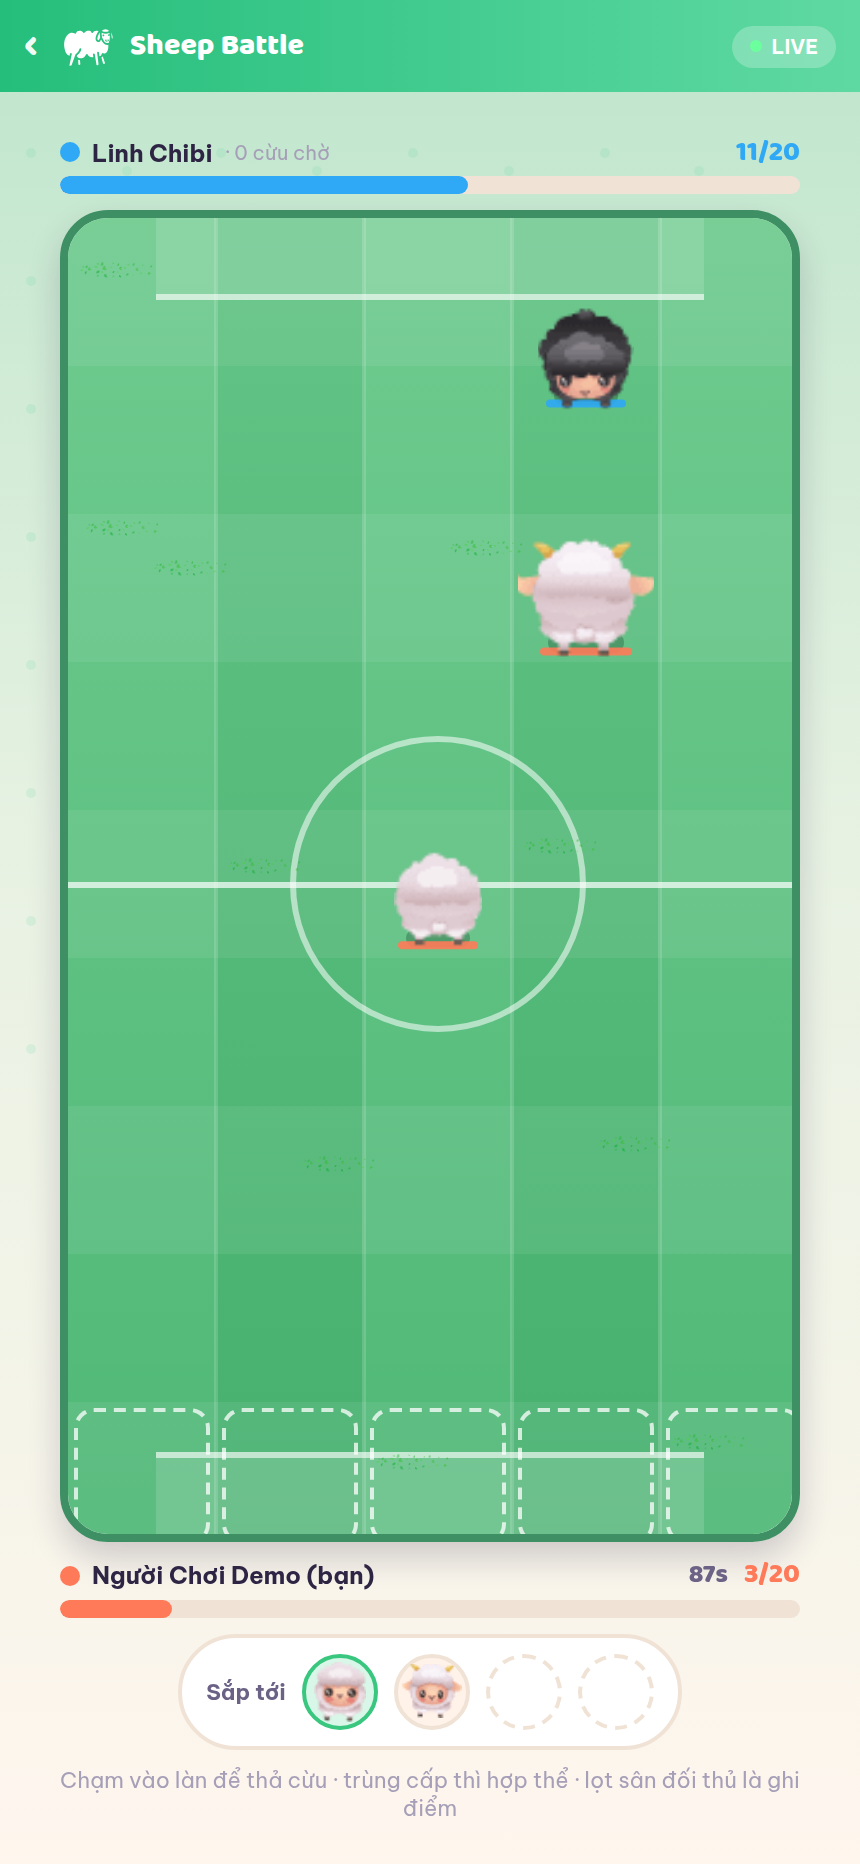
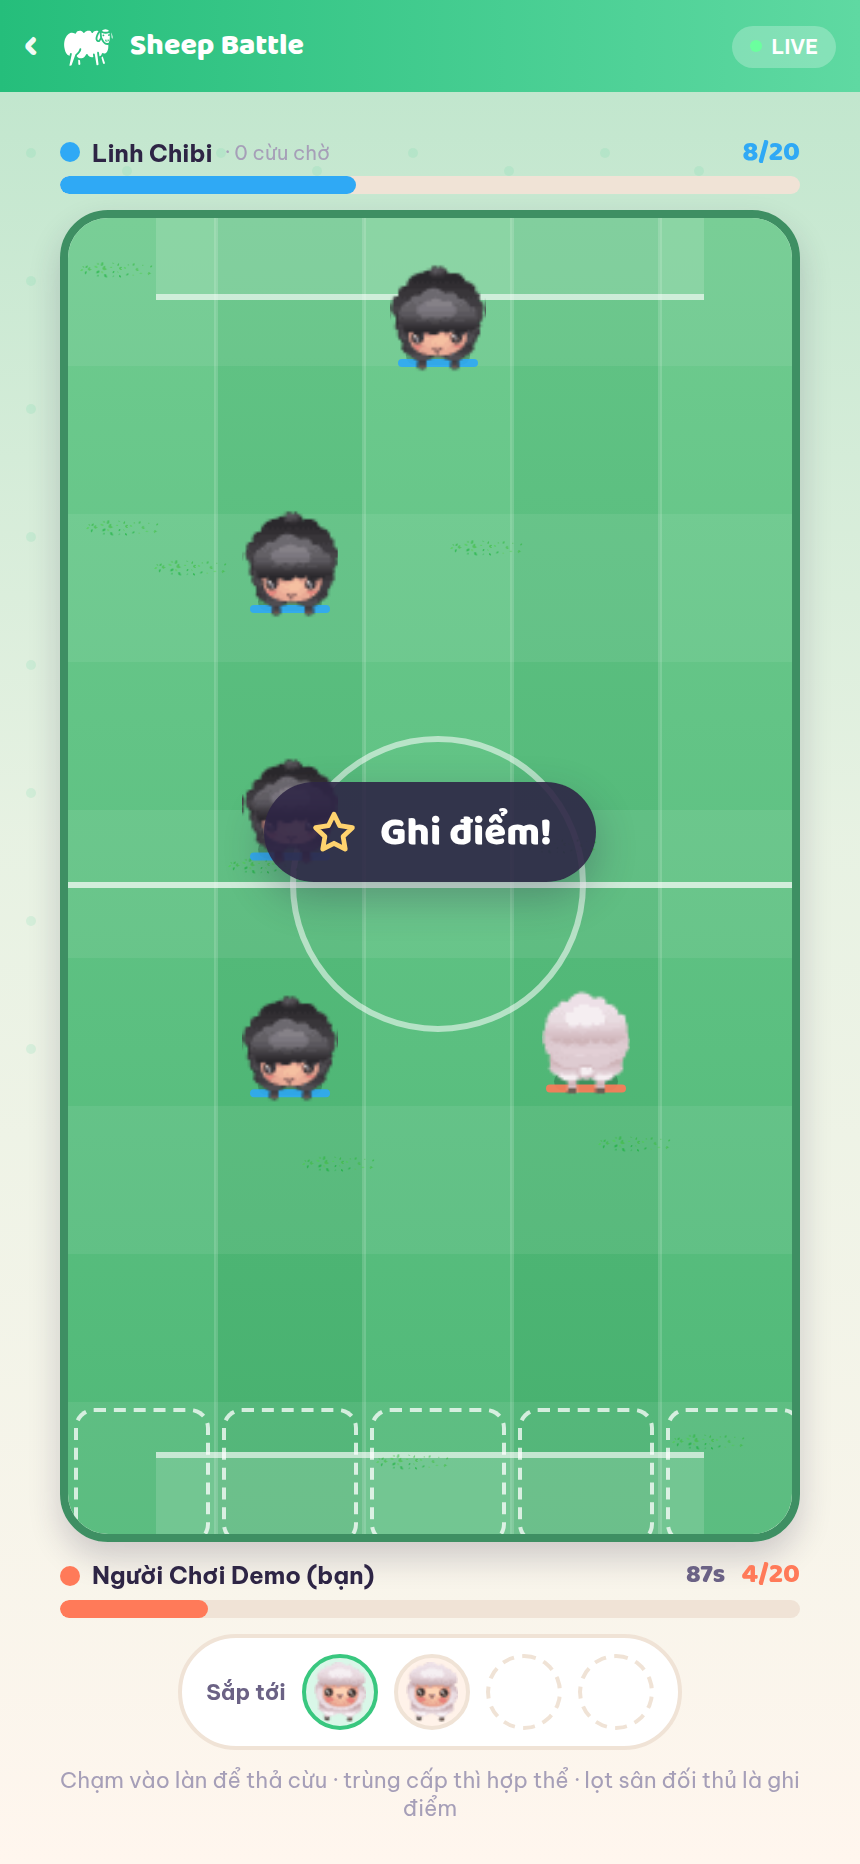
Thêm nhịp ghì nhau và hiệu ứng húc của bộ art Sheep Fight
Repo TomoSheepFight có sẵn hai hiệu ứng nhiều khung, nay dùng cả hai:
- push-effect: 8 khung bụi bốc lên chỗ hai bên tì nhau.
- lane-effect: 4 khung vệt sáng chạy dọc làn vừa thả cừu.

Engine (packages/shared/src/games/sheep.ts):
- Chạm cừu địch giờ khoá hai con lại PUSH_MS = 700ms rồi mới trừ cấp, thay vì
  giải quyết gọn trong một tick. Không có nhịp này thì người chơi chỉ thấy cừu
  biến mất chứ không thấy hai bên đẩy nhau.
- view trả thêm pushMs; unit mang lockUntil để client biết đang ghì.

Client:
- <SheepEffect> chạy strip nhiều khung; đám bụi vẽ đè lên cừu, đặt giữa cặp gần
  nhau nhất của hai phe trong làn nên mỗi làn chỉ một đám.
- Cừu đang ghì thì chuyển sang animation húc và nảy gấp đôi nhịp.
- Sprite cừu không còn nuốt cú chạm thả cừu (pointerEvents none).
- Không báo lỗi khi bấm lúc hàng chờ trống hoặc ô xuất phát đang bận — đó là
  nhịp chơi bình thường, không phải lỗi.

Sửa lỗi màn hình trắng: khối tính điểm chạm gọi rowOf trước khi hàm được khai
báo, TDZ làm vỡ cả màn trận.

diff --git a/apps/mobile/src/games/SheepArena.tsx b/apps/mobile/src/games/SheepArena.tsx
@@ -3,7 +3,7 @@ import { Image, Pressable, View } from 'react-native';
 import { LinearGradient } from 'expo-linear-gradient';
 import { Bar, Txt } from '../components/ui';
 import { Icon } from '../components/Icon';
-import { SheepBadge, SheepSprite, SheepUnit } from '../components/SheepSprite';
+import { SheepBadge, SheepEffect, SheepSprite, SheepUnit } from '../components/SheepSprite';
 import { SHEEP_STILLS } from '../art/sheepFight';
 import { C, R, S, SEAT_COLORS, softShadow } from '../theme';
 import { BoardProps } from './shared';
@@ -13,6 +13,8 @@ const LEVEL_SCALE = [0.74, 0.74, 0.86, 0.98, 1.1, 1.24];
 
 export default function SheepArena({ view, mySeat, send, space }: BoardProps) {
   const [now, setNow] = useState(Date.now());
+  /** Lần chạm gần nhất của từng làn, để chạy vệt sáng. */
+  const [tapped, setTapped] = useState<Record<number, number>>({});
   useEffect(() => {
     const t = setInterval(() => setNow(Date.now()), 200);
     return () => clearInterval(t);
@@ -31,8 +33,40 @@ export default function SheepArena({ view, mySeat, send, space }: BoardProps) {
   const fieldH = cell * len;
 
   const left = Math.max(0, (view.endsAt ?? 0) - now);
-  /** Sân luôn xoay để phần của mình nằm dưới, bất kể ngồi ghế nào. */
+
   const rowOf = (pos: number) => (me === 0 ? len - 1 - pos : pos);
+
+  /**
+   * Chỗ hai phe đang tì nhau trong mỗi làn: lấy cặp gần nhau nhất rồi đặt đám
+   * bụi vào chính giữa, thay vì mỗi con tự vẽ một đám lệch nhau.
+   */
+  const clashSpots: { lane: number; row: number }[] = [];
+  {
+    const byLane = new Map<number, any[]>();
+    for (const u of view.units as any[]) {
+      const pushing = (u.lockUntil && now < u.lockUntil) || (u.clashAt && now - u.clashAt < 420);
+      if (!pushing) continue;
+      const list = byLane.get(u.lane) ?? [];
+      list.push(u);
+      byLane.set(u.lane, list);
+    }
+    byLane.forEach((units, lane) => {
+      const ours = units.filter((u) => u.seat === me);
+      const theirs = units.filter((u) => u.seat !== me);
+      let best: [any, any] | null = null;
+      let gap = Infinity;
+      for (const a of ours)
+        for (const b of theirs) {
+          const d = Math.abs(a.pos - b.pos);
+          if (d < gap) {
+            gap = d;
+            best = [a, b];
+          }
+        }
+      if (best) clashSpots.push({ lane, row: (rowOf(best[0].pos) + rowOf(best[1].pos)) / 2 });
+    });
+  }
+  /** Sân luôn xoay để phần của mình nằm dưới, bất kể ngồi ghế nào. */
 
   return (
     <View style={{ gap: S.sm, alignItems: 'center' }}>
@@ -130,11 +164,23 @@ export default function SheepArena({ view, mySeat, send, space }: BoardProps) {
           />
         ))}
 
+        {/* Vệt sáng chạy dọc làn vừa thả cừu, cho biết chạm đã ăn */}
+        {Array.from({ length: lanes }, (_, i) =>
+          now - (tapped[i] ?? 0) < 380 ? (
+            <View key={`lanefx${i}`} pointerEvents="none" style={{ position: 'absolute', left: i * cell, top: 0 }}>
+              <SheepEffect name="lane-effect" width={cell} height={fieldH} frameMs={95} opacity={0.4} />
+            </View>
+          ) : null,
+        )}
+
         {/* Vùng chạm để thả cừu — cả cột làn */}
         {Array.from({ length: lanes }, (_, i) => (
           <Pressable
             key={`tap${i}`}
-            onPress={() => send('deploy', { lane: i })}
+            onPress={() => {
+              setTapped((t) => ({ ...t, [i]: Date.now() }));
+              send('deploy', { lane: i });
+            }}
             style={({ pressed }) => ({
               position: 'absolute',
               left: i * cell,
@@ -169,7 +215,7 @@ export default function SheepArena({ view, mySeat, send, space }: BoardProps) {
         {view.units.map((u: any) => {
           const row = rowOf(u.pos);
           const mine = u.seat === me;
-          const clashing = !!u.clashAt && now - u.clashAt < 500;
+          const clashing = (!!u.lockUntil && now < u.lockUntil) || (!!u.clashAt && now - u.clashAt < 420);
           const body = cell * (LEVEL_SCALE[u.level] ?? 0.9);
           return (
             <SheepUnit
@@ -212,17 +258,29 @@ export default function SheepArena({ view, mySeat, send, space }: BoardProps) {
                   size={body}
                   frameMs={clashing ? 90 : 120}
                 />
-                {clashing ? (
-                  <Image
-                    source={SHEEP_STILLS['push-effect']}
-                    resizeMode="contain"
-                    style={{ position: 'absolute', bottom: cell * 0.5, width: cell * 0.9, height: cell * 0.28 }}
-                  />
-                ) : null}
               </View>
             </SheepUnit>
           );
         })}
+        {/* Bụi bốc lên chỗ hai phe tì nhau — hiệu ứng 8 khung của bộ art gốc */}
+        {clashSpots.map((spot) => (
+          <View
+            key={`clash${spot.lane}`}
+            pointerEvents="none"
+            style={{
+              position: 'absolute',
+              left: spot.lane * cell,
+              top: spot.row * cell,
+              width: cell,
+              height: cell,
+              alignItems: 'center',
+              justifyContent: 'center',
+            }}
+          >
+            <SheepEffect name="push-effect" width={cell * 1.35} height={cell * 1.2} frameMs={60} />
+          </View>
+        ))}
+
       </View>
 
       {/* Bên mình */}

diff --git a/packages/shared/src/games/sheep.ts b/packages/shared/src/games/sheep.ts
@@ -29,6 +29,8 @@ export interface SheepUnit {
   lastMoveAt: number;
   /** Đánh dấu để client chạy hiệu ứng va chạm. */
   clashAt?: number;
+  /** Đang ghì nhau tới thời điểm này thì chưa ai đi tiếp. */
+  lockUntil?: number;
 }
 
 export interface SheepState extends BaseState {
@@ -50,6 +52,8 @@ export interface SheepState extends BaseState {
 export const MAX_LEVEL = 5;
 /** Mỗi cừu đi 1 ô sau ngần này mili-giây. */
 const MOVE_MS = 620;
+/** Hai bên chạm nhau thì ghì nhau chừng này rồi mới phân thắng bại. */
+const PUSH_MS = 700;
 /** Hàng chờ hồi thêm 1 con cừu sau ngần này mili-giây. */
 const REFILL_MS = 1400;
 
@@ -181,6 +185,8 @@ export const SheepEngine: GameEngine<SheepState, SheepConfig> = {
 
     for (const mover of order) {
       if (dead.has(mover.id)) continue;
+      // Đang ghì nhau: đứng tại chỗ đẩy, chưa đi và chưa phân thắng bại.
+      if (mover.lockUntil && now < mover.lockUntil) continue;
       if (now - mover.lastMoveAt < MOVE_MS) continue;
       mover.lastMoveAt = now;
       dirty = true;
@@ -214,7 +220,18 @@ export const SheepEngine: GameEngine<SheepState, SheepConfig> = {
         continue;
       }
 
-      // Chạm cừu địch: hai bên trừ cấp cho nhau, bên còn dư cấp thì sống.
+      // Chạm cừu địch: ghì nhau một nhịp cho thấy hai bên đang đẩy, hết nhịp
+      // mới trừ cấp. Không có nhịp này thì va chạm xong trong một tick, người
+      // chơi chỉ thấy cừu biến mất.
+      if (!mover.lockUntil || !target.lockUntil) {
+        mover.lockUntil = now + PUSH_MS;
+        target.lockUntil = now + PUSH_MS;
+        mover.clashAt = now;
+        target.clashAt = now;
+        events.push({ type: 'clash', payload: { lane: mover.lane, pos: next, by: mover.seat } });
+        continue;
+      }
+
       const damage = Math.min(mover.level, target.level);
       mover.level -= damage;
       target.level -= damage;
@@ -224,6 +241,8 @@ export const SheepEngine: GameEngine<SheepState, SheepConfig> = {
         type: 'clash',
         payload: { lane: mover.lane, pos: next, by: mover.seat },
       });
+      mover.lockUntil = undefined;
+      target.lockUntil = undefined;
       if (target.level <= 0) dead.add(target.id);
       if (mover.level <= 0) dead.add(mover.id);
       // Thắng giao tranh thì tràn lên ô vừa dọn sạch.
@@ -260,6 +279,7 @@ export const SheepEngine: GameEngine<SheepState, SheepConfig> = {
       maxLevel: MAX_LEVEL,
       // Client dùng nhịp này để trượt cừu sang ô mới đúng bằng thời gian server đi.
       moveMs: MOVE_MS,
+      pushMs: PUSH_MS,
       mySeat: seat,
       // Hàng chờ của đối thủ được giấu, chỉ lộ số lượng.
       myQueue: seat >= 0 ? state.queues[seat] : [],

diff --git a/apps/mobile/src/components/SheepSprite.tsx b/apps/mobile/src/components/SheepSprite.tsx
@@ -1,6 +1,6 @@
 import React, { useEffect, useRef, useState } from 'react';
 import { Animated, Easing, Image, View } from 'react-native';
-import { SheepAnim, SheepTeam, sheepBadge, sheepStrip } from '../art/sheepFight';
+import { SHEEP_STRIPS, SheepAnim, SheepTeam, sheepBadge, sheepStrip } from '../art/sheepFight';
 
 /**
  * Cừu trong Sheep Battle — sprite thật của game Sheep Fight, mỗi bậc hợp thể là
@@ -123,6 +123,8 @@ export function SheepUnit({
 
   return (
     <Animated.View
+      // Cừu không được nuốt cú chạm — vùng chạm thả cừu nằm dưới nó.
+      pointerEvents="none"
       style={{
         position: 'absolute',
         width,
@@ -134,5 +136,56 @@ export function SheepUnit({
     >
       {children}
     </Animated.View>
+  );
+}
+
+/**
+ * Hiệu ứng nhiều khung của bộ art (bụi húc nhau, vệt sáng làn).
+ * `loop = false` thì chạy hết một lượt rồi tắt.
+ */
+export function SheepEffect({
+  name,
+  width,
+  height,
+  frameMs = 70,
+  loop = true,
+  opacity = 1,
+}: {
+  name: 'push-effect' | 'lane-effect';
+  width: number;
+  height: number;
+  frameMs?: number;
+  loop?: boolean;
+  opacity?: number;
+}) {
+  const strip = SHEEP_STRIPS[name];
+  const [frame, setFrame] = useState(0);
+
+  useEffect(() => {
+    setFrame(0);
+    const timer = setInterval(() => {
+      setFrame((f) => {
+        const next = f + 1;
+        if (next >= strip.count) return loop ? 0 : strip.count - 1;
+        return next;
+      });
+    }, frameMs);
+    return () => clearInterval(timer);
+  }, [strip.count, frameMs, loop, name]);
+
+  return (
+    <View style={{ width, height, overflow: 'hidden', opacity }} pointerEvents="none">
+      <Image
+        source={strip.src}
+        resizeMode="stretch"
+        style={{
+          position: 'absolute',
+          width: width * strip.count,
+          height,
+          left: -frame * width,
+          top: 0,
+        }}
+      />
+    </View>
   );
 }

diff --git a/apps/mobile/src/art/sheepFight.ts b/apps/mobile/src/art/sheepFight.ts
@@ -32,6 +32,8 @@ export const SHEEP_STRIPS: Record<string, SheepStrip> = {
   'sheep-5-w-push': { w: 82, h: 84, count: 6, src: require('../../assets/sheep-fight/sheep-5-w-push.png') },
   'sheep-5-b-walk': { w: 83, h: 83, count: 6, src: require('../../assets/sheep-fight/sheep-5-b-walk.png') },
   'sheep-5-b-push': { w: 83, h: 80, count: 6, src: require('../../assets/sheep-fight/sheep-5-b-push.png') },
+  'push-effect': { w: 66, h: 59, count: 8, src: require('../../assets/sheep-fight/push-effect.png') },
+  'lane-effect': { w: 70, h: 640, count: 4, src: require('../../assets/sheep-fight/lane-effect.png') },
 };
 
 export const SHEEP_STILLS: Record<string, number> = {
@@ -46,7 +48,6 @@ export const SHEEP_STILLS: Record<string, number> = {
   'lvl5W': require('../../assets/sheep-fight/lvl5W.png'),
   'lvl5B': require('../../assets/sheep-fight/lvl5B.png'),
   'sheep-ready': require('../../assets/sheep-fight/sheep-ready.png'),
-  'push-effect': require('../../assets/sheep-fight/push-effect.png'),
   'grass-effect': require('../../assets/sheep-fight/grass-effect.png'),
 };
 

diff --git a/apps/mobile/app/match/[id].tsx b/apps/mobile/app/match/[id].tsx
@@ -78,7 +78,10 @@ export default function MatchScreen() {
 
   const send = async (type: string, payload: any = {}) => {
     const res: any = await emitAck('game.action', { matchId: id, actionId: newActionId(), type, payload });
-    if (!res?.ok) showToast(friendlyError(res?.error ?? 'NETWORK'), 'warn');
+    // Bấm nhanh hơn tốc độ hồi cừu, hoặc ô xuất phát đang có cừu khác cấp —
+    // đều là nhịp chơi bình thường, không phải lỗi cần báo.
+    const quiet = ['QUEUE_EMPTY', 'LANE_BLOCKED', 'MAX_LEVEL_REACHED'];
+    if (!res?.ok && !quiet.includes(res?.error)) showToast(friendlyError(res?.error ?? 'NETWORK'), 'warn');
   };
 
   if (!state) {

diff --git a/apps/mobile/assets/sheep-fight/CREDITS.md b/apps/mobile/assets/sheep-fight/CREDITS.md
@@ -9,7 +9,9 @@ Sheep Fight của **Do Trung Kien**, phát hành theo giấy phép **MIT**
 | `sheep-{1..5}-{w,b}-{walk,push}.png` | 5 giống cừu theo bậc hợp thể × 2 phe × 2 animation, mỗi strip 6 khung |
 | `lvl{1..5}{W,B}.png` | Icon cấp cừu cho hàng chờ |
 | `sheep-ready.png` | Dấu cừu sẵn sàng |
-| `push-effect.png`, `grass-effect.png` | Hiệu ứng húc nhau và cỏ |
+| `push-effect.png` | Hiệu ứng bụi khi hai con húc nhau, 8 khung |
+| `lane-effect.png` | Vệt sáng chạy dọc làn khi thả cừu, 4 khung |
+| `grass-effect.png` | Cụm cỏ trên sân |
 
 Bậc cừu: 1 cừu non chưa có sừng · 2 nhú sừng · 3 sừng xoắn · 4 đeo băng đầu
 · 5 cừu chúa sừng vàng, mặt dữ. Phe trắng nhìn từ sau lưng (đi lên), phe đen
